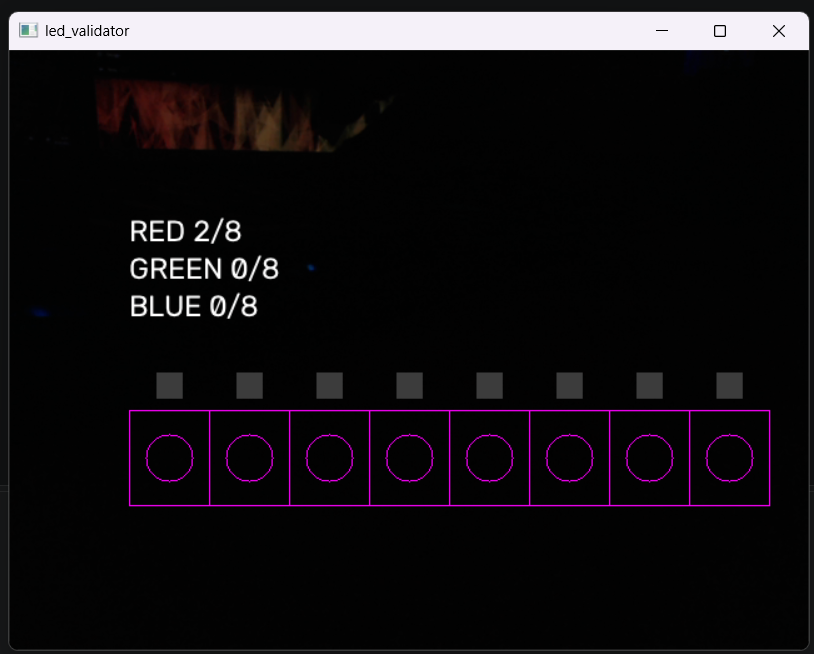
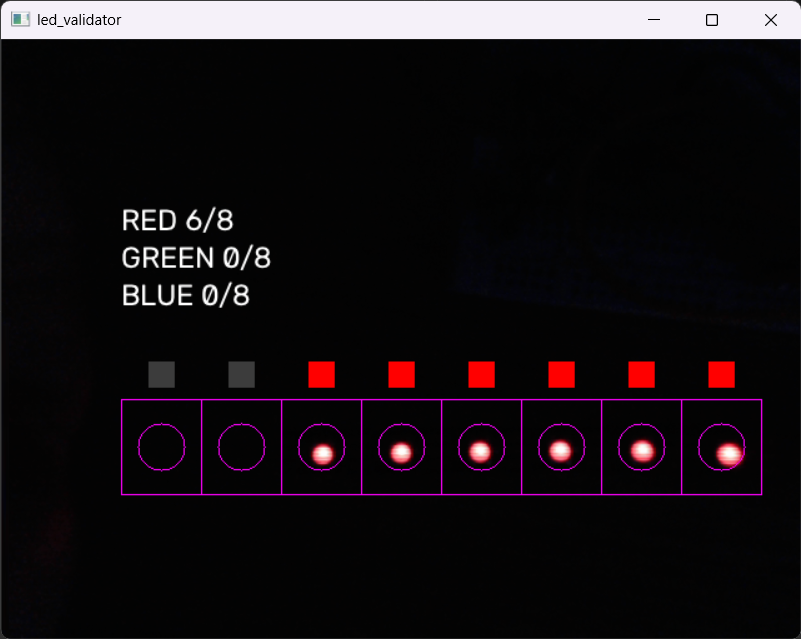
updated image and changed default exposure to -12

diff --git a/host/led_validator.py b/host/led_validator.py
@@ -26,7 +26,7 @@ cap = cv2.VideoCapture(0, cv2.CAP_DSHOW)   # 0 = first camera; try 1 if wrong on
 assert cap.isOpened(), "no camera"
 cap.read()                                  # DirectShow needs one frame before settings
 
-exposure = -10                              # ASSUMPTION: log2 scale; tune with +/-
+exposure = -12                              # ASSUMPTION: log2 scale; tune with +/-
 cap.set(cv2.CAP_PROP_AUTO_EXPOSURE, 0.25)   # 0.25 = manual on most Windows drivers
 cap.set(cv2.CAP_PROP_EXPOSURE, exposure)
 cap.set(cv2.CAP_PROP_AUTO_WB, 0)
